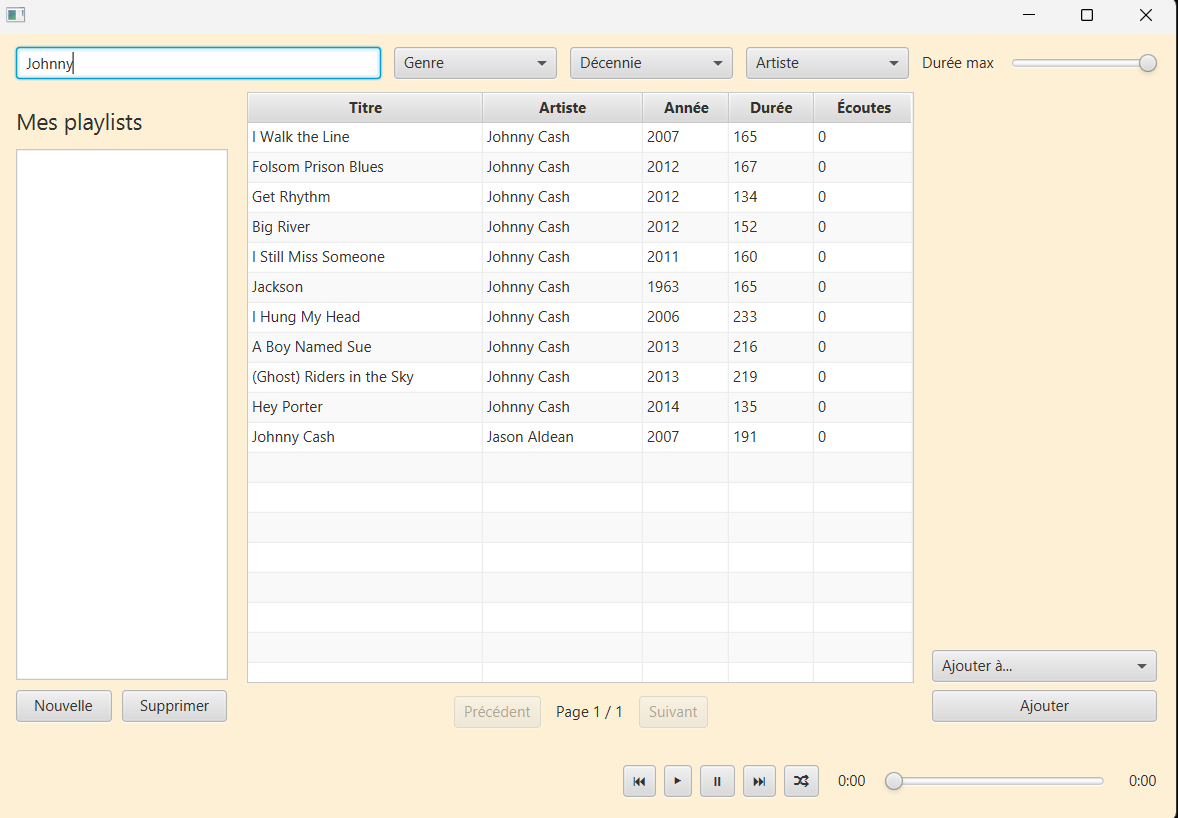
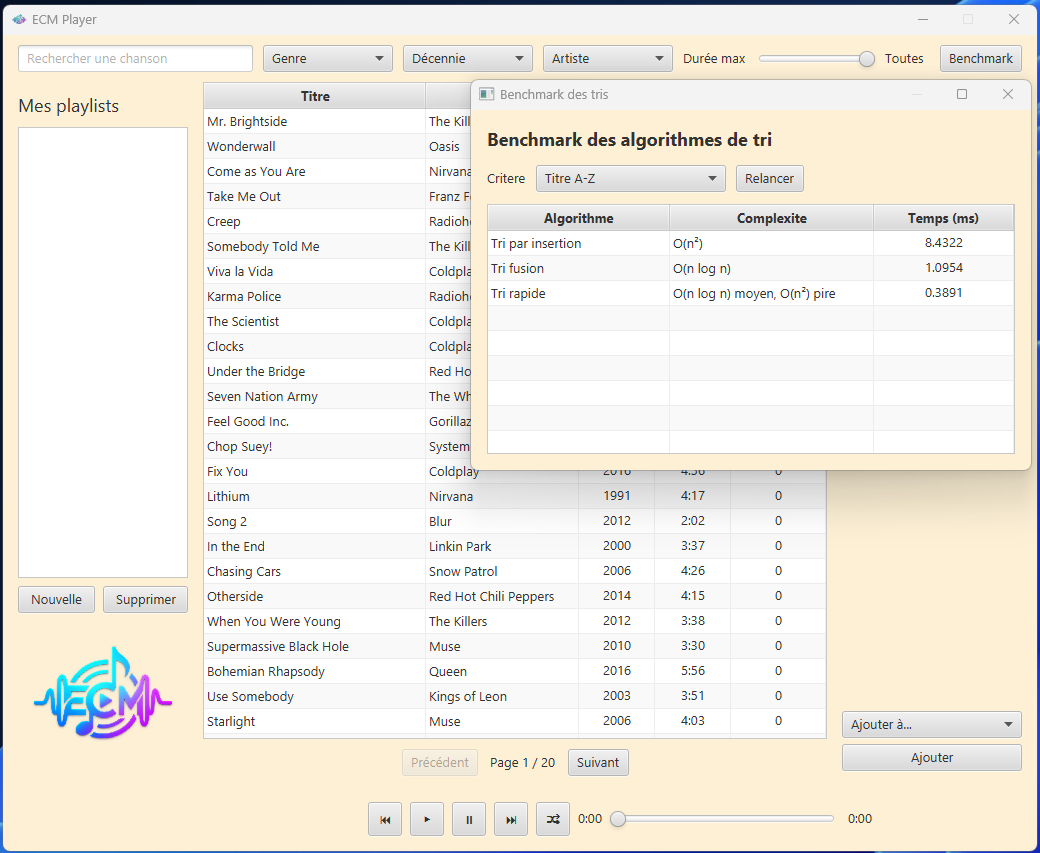
Fix: Readme + screenshot

diff --git a/README.md b/README.md
@@ -155,10 +155,10 @@ JUnit 5.12.1 pour les tests
 ## Répartition du travail (auto-évaluation)
 
 | Membre | % contribution estimée | Ce sur quoi j'ai travaillé                       |
-|--------|-----------------------|--------------------------------------------------|
-| Eva Bessette |  | UI FXML, Controller, CSS, recherche                       |
-| Marc-André Dufour |  | Algorithmes de tri, Benchmark                    |
-| Charles Legault | 33,3 % | Modèle, services, filtres, tests |
+|--------|------------------------|--------------------------------------------------|
+| Eva Bessette | 33,3 %                 | UI FXML, Controller, CSS, recherche                       |
+| Marc-André Dufour | 33,3 %                 | Algorithmes de tri, Benchmark                    |
+| Charles Legault | 33,3 %                 | Modèle, services, filtres, tests |
 
 ---
 
